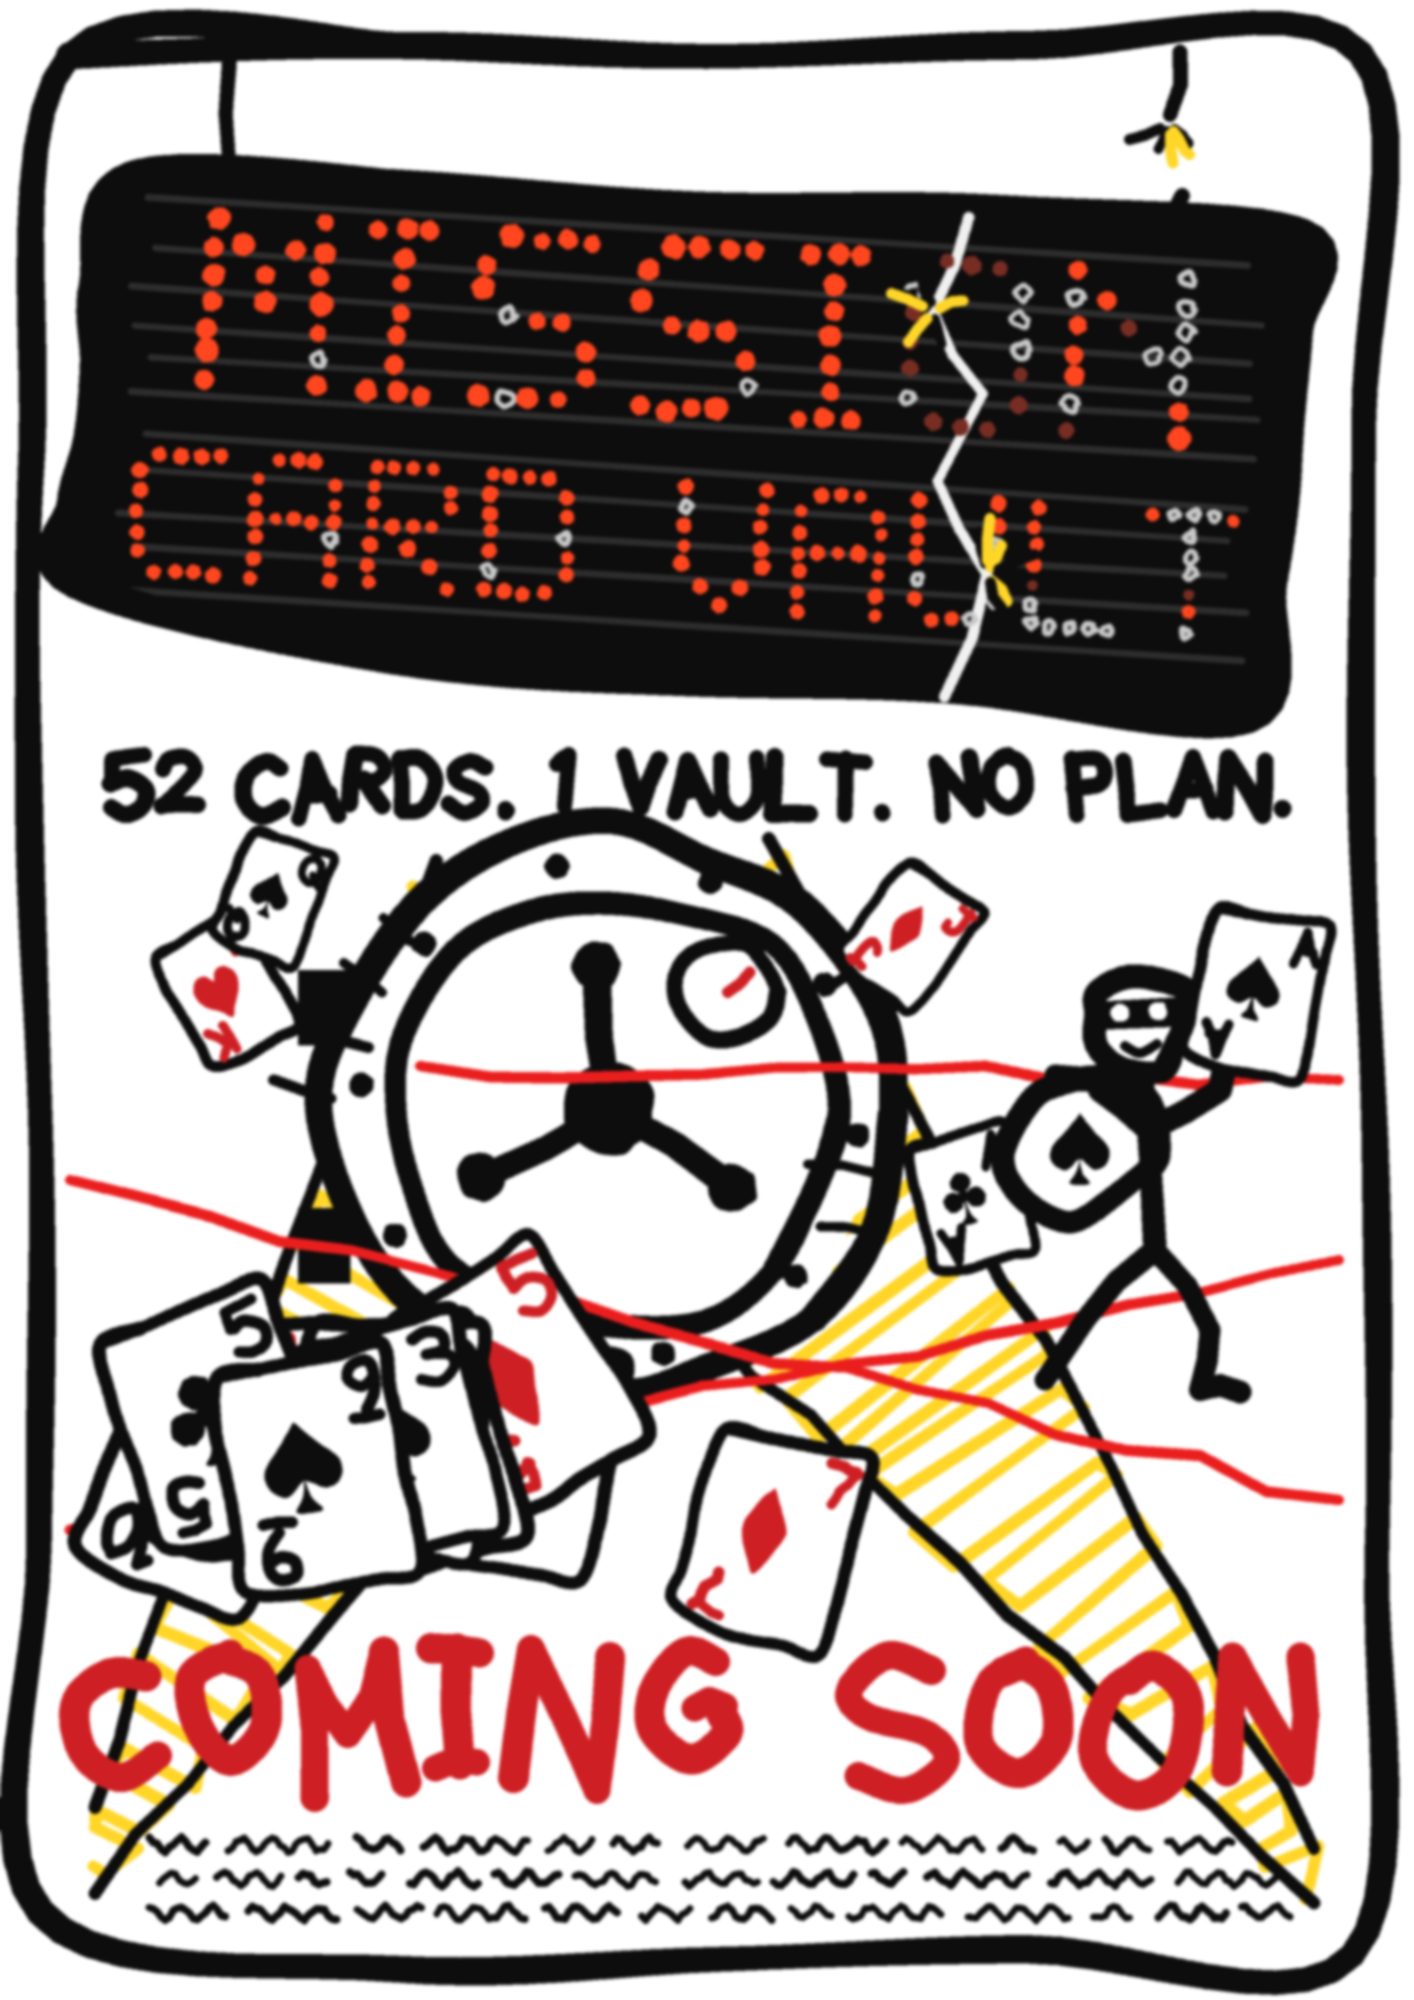
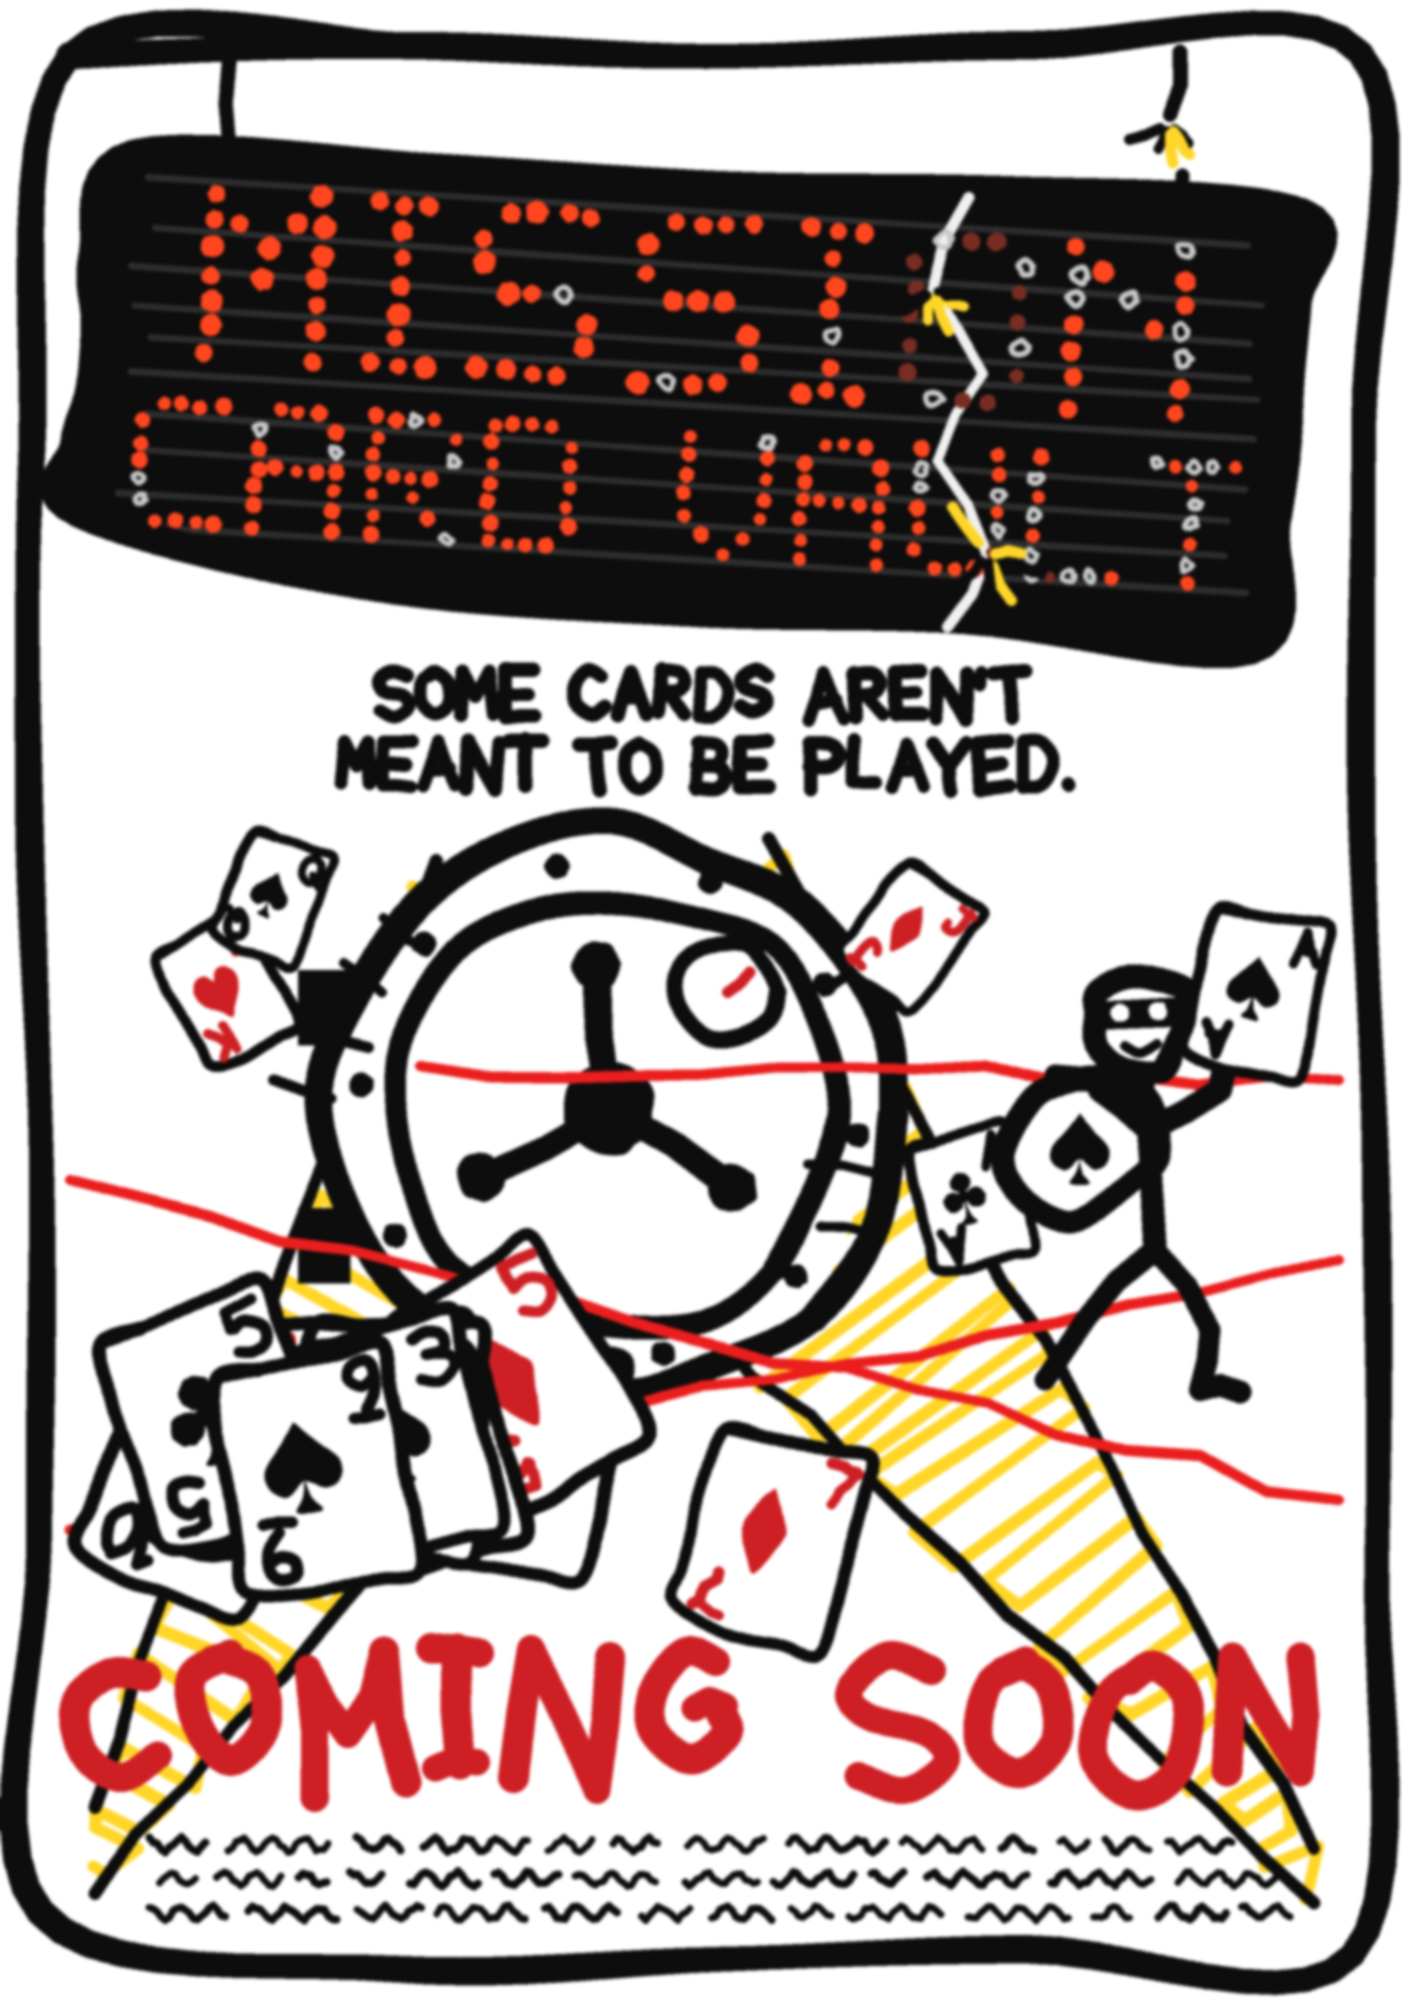
Swap the poster slogan for "Some cards aren't meant to be played."
Adds handwritten B, Y and apostrophe, splits the line in two, and makes
the sign a little shorter to make room.

Claude-Session: https://claude.ai/code/session_01UjDyNTYTqKf17e7tDeFSAz

Changed region(s): [[0.0311, 0.062, 0.9646, 0.434]]

diff --git a/playing-cards/make_poster.py b/playing-cards/make_poster.py
@@ -75,8 +75,8 @@ def spark(pen, x, y, size):
 
 def sign(pen):
     """The hanging LED sign. One wire snapped, so it hangs crooked."""
-    sx, sy, deg = 110, 170, 3.5
-    sw, sh = 1190, 470
+    sx, sy, deg = 110, 150, 3.5
+    sw, sh = 1190, 420
     pen.at(0, 0)
     pen.stroke(wobble_line([(230, 52), (sx + 120, sy + 5)], 3), 7)
     pen.stroke(wobble_line([(1180, 52), (1170, 115)], 3), 7)                  # snapped stub at the top
@@ -97,7 +97,7 @@ def sign(pen):
     crack = [(crack_x, -5), (crack_x - 30, 90), (crack_x + 25, 170), (crack_x - 15, 260), (crack_x + 40, 350), (crack_x + 5, sh + 5)]
     pen.stroke(wobble_line(crack, 4), 5, (240, 240, 240))
 
-    lines = [('MISSION', 27, 42), ('CARD VAULT', 19.5, 280)]
+    lines = [('MISSION', 27, 36), ('CARD VAULT', 19.5, 250)]
     for text, pitch, top in lines:
         bulbs, cols = led_bulbs(text, pitch)
         left = (sw - cols * pitch) / 2 + pitch / 2
@@ -280,8 +280,9 @@ if __name__ == '__main__':
     random.seed(4242)
     sign(pen)
     random.seed(77)
-    make_cards.SHAKE = 1.3                              # steadier hand so the words stay readable
-    write(pen.at(0, 0), '52 CARDS. 1 VAULT. NO PLAN.', PW / 2, 758, 54, r=8, gap=0.24, center=True)
+    make_cards.SHAKE = 1.1                              # steadier hand so the words stay readable
+    write(pen.at(0, 0), "SOME CARDS AREN'T", PW / 2, 672, 44, r=6.5, gap=0.24, center=True)
+    write(pen.at(0, 0), 'MEANT TO BE PLAYED.', PW / 2, 742, 44, r=6.5, gap=0.24, center=True)
     make_cards.SHAKE = 2.0
 
     random.seed(5)

diff --git a/playing-cards/make_cards.py b/playing-cards/make_cards.py
@@ -41,7 +41,7 @@ G = {
 G['10'] = [('l', [(0.0, 0.25), (0.3, 0.0), (0.3, 1.4)])] + \
           [('s', [((x * 0.85) + 0.6, y) for x, y in
                   [(0.5, 0.0), (0.08, 0.3), (0.05, 1.0), (0.5, 1.4), (0.95, 1.0), (0.92, 0.3), (0.5, 0.0), (0.3, 0.1)]])]
-WIDTH = {'10': 1.45, 'I': 0.6, '1': 0.5, '.': 0.25, ' ': 0.55}
+WIDTH = {'10': 1.45, 'I': 0.6, '1': 0.5, '.': 0.25, "'": 0.2, ' ': 0.55}
 for _r in ('6', '9'):
     G[_r] = G[_r] + [('l', [(0.1, 1.62), (0.9, 1.61)])]
 
@@ -85,6 +85,10 @@ G.update({
     'V': [('l', [(0, 0), (0.5, 1.4), (1, 0)])],
     '1': [('l', [(0.0, 0.25), (0.3, 0.0), (0.3, 1.4)])],
     '.': [('l', [(0.1, 1.33), (0.12, 1.38)])],
+    'B': [('l', [(0.08, 0), (0.08, 1.4)]), ('s', [(0.08, 0), (0.65, 0.02), (0.85, 0.3), (0.65, 0.66), (0.08, 0.68)]),
+          ('s', [(0.08, 0.68), (0.75, 0.7), (0.95, 1.05), (0.7, 1.38), (0.08, 1.4)])],
+    'Y': [('l', [(0, 0), (0.5, 0.7)]), ('l', [(1, 0), (0.5, 0.7), (0.5, 1.4)])],
+    "'": [('l', [(0.12, 0), (0.06, 0.35)])],
     ' ': [],
 })
 
